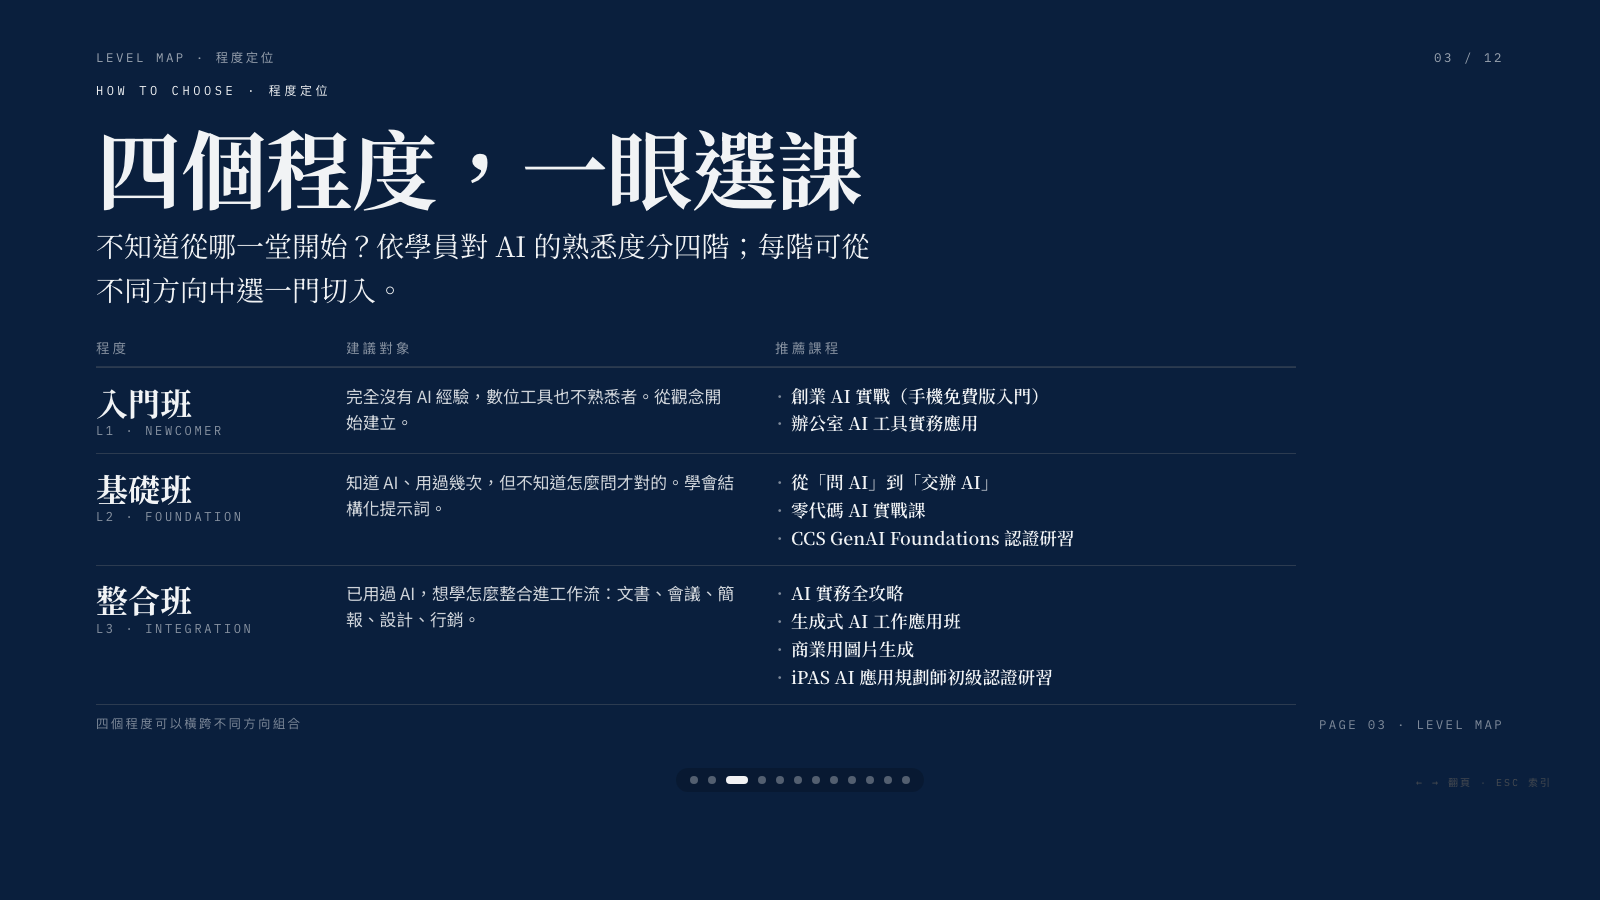
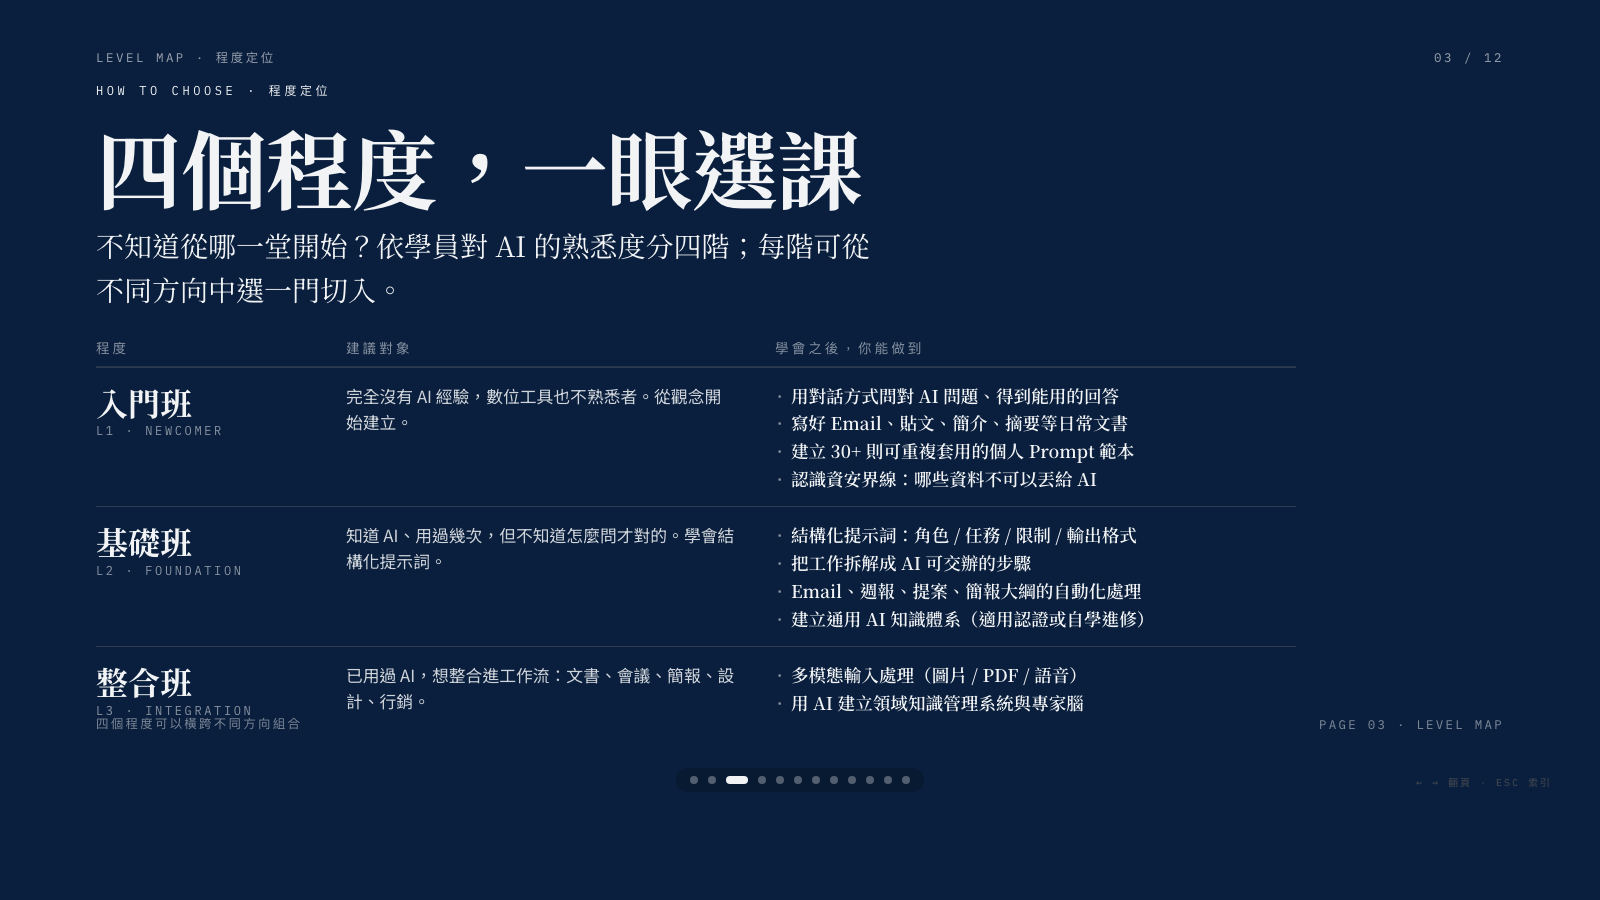
feat(deck): 程度定位改應用層面說明 + 自動化加 Make 課程（兩階段）
主訴：
1. 程度定位頁不要綁定具體課程，改用「應用層面」（從課程教學內容擷取）
2. 自動化主題增加 Make 自動化流程（已開過課但無網頁講義）
3. 課程介紹頁不需時數（已符合，未變動）

更動：
- Page 3 程度定位：欄位「推薦課程」→「學會之後，你能做到」；
  4 階各 4 條應用條目（從現有課程教學重點擷取）：
  · L1 入門：對話問 AI / 日常文書 / Prompt 範本 / 資安界線
  · L2 基礎：結構化提示詞 / AI 交辦 / 文書自動化 / 通用 AI 知識體系
  · L3 整合：多模態 / 知識管理 / 商業視覺成系列 / 數位行銷數據閉環
  · L4 協思：零代碼工具 / 雲端+本機自動化串接 / API+部署 / AI 策略夥伴
- Page 9 自動化：從 single feature-card 改成 two-courses（grid-2）
  · 入門 · 雲端視覺化：Make 自動化流程（新增）
  · 進階 · 本機 + AI 整合：AI 資料工廠 — 大規模文件處理實戰
- 主題地圖 06 desc：「補上一般雲端自動化平台做不到的：大量資料、本機檔案」
  → 「從視覺化雲端自動化入門，到本機部署處理大量資料」
- 修補 HTML 註解頁碼錯位（Page 4-12 註解之前留在舊編號）

diff --git a/index.html b/index.html
@@ -229,7 +229,7 @@
       <div class="course-line" data-anim><div class="tag">03 · GenAI</div><div class="name">生成式 AI · 商業圖像生成</div><div class="desc">AI 設計流水線 PM 思維，不需要專業設計軟體背景</div></div>
       <div class="course-line" data-anim><div class="tag">04 · Cert</div><div class="name">AI 認證輔導</div><div class="desc">CCS 國際認證 + iPAS 國家級認證</div></div>
       <div class="course-line" data-anim><div class="tag">05 · Marketing</div><div class="name">數位行銷 × 網站數據</div><div class="desc">SEO / GA4 / GTM / 廣告 / Looker Studio 完整資料閉環</div></div>
-      <div class="course-line" data-anim><div class="tag">06 · Automation</div><div class="name">自動化工作流</div><div class="desc">補上一般雲端自動化平台做不到的：大量資料、本機檔案</div></div>
+      <div class="course-line" data-anim><div class="tag">06 · Automation</div><div class="name">自動化工作流</div><div class="desc">從視覺化雲端自動化入門，到本機部署處理大量資料</div></div>
     </div>
   </div>
   <div class="foot">
@@ -255,7 +255,7 @@
       <div class="level-row level-head">
         <div>程度</div>
         <div>建議對象</div>
-        <div>推薦課程</div>
+        <div>學會之後，你能做到</div>
       </div>
       <div class="level-row" data-anim>
         <div class="level-name">
@@ -264,8 +264,10 @@
         </div>
         <div class="level-audience">完全沒有 AI 經驗，數位工具也不熟悉者。從觀念開始建立。</div>
         <div class="level-courses">
-          <div>創業 AI 實戰（手機免費版入門）</div>
-          <div>辦公室 AI 工具實務應用</div>
+          <div>用對話方式問對 AI 問題、得到能用的回答</div>
+          <div>寫好 Email、貼文、簡介、摘要等日常文書</div>
+          <div>建立 30+ 則可重複套用的個人 Prompt 範本</div>
+          <div>認識資安界線：哪些資料不可以丟給 AI</div>
         </div>
       </div>
       <div class="level-row" data-anim>
@@ -275,9 +277,10 @@
         </div>
         <div class="level-audience">知道 AI、用過幾次，但不知道怎麼問才對的。學會結構化提示詞。</div>
         <div class="level-courses">
-          <div>從「問 AI」到「交辦 AI」</div>
-          <div>零代碼 AI 實戰課</div>
-          <div>CCS GenAI Foundations 認證研習</div>
+          <div>結構化提示詞：角色 / 任務 / 限制 / 輸出格式</div>
+          <div>把工作拆解成 AI 可交辦的步驟</div>
+          <div>Email、週報、提案、簡報大綱的自動化處理</div>
+          <div>建立通用 AI 知識體系（適用認證或自學進修）</div>
         </div>
       </div>
       <div class="level-row" data-anim>
@@ -285,12 +288,12 @@
           <div class="level-zh">整合班</div>
           <div class="level-en">L3 · Integration</div>
         </div>
-        <div class="level-audience">已用過 AI，想學怎麼整合進工作流：文書、會議、簡報、設計、行銷。</div>
+        <div class="level-audience">已用過 AI，想整合進工作流：文書、會議、簡報、設計、行銷。</div>
         <div class="level-courses">
-          <div>AI 實務全攻略</div>
-          <div>生成式 AI 工作應用班</div>
-          <div>商業用圖片生成</div>
-          <div>iPAS AI 應用規劃師初級認證研習</div>
+          <div>多模態輸入處理（圖片 / PDF / 語音）</div>
+          <div>用 AI 建立領域知識管理系統與專家腦</div>
+          <div>商業視覺成系列產出（封面、海報、簡報、產品圖）</div>
+          <div>數位行銷數據閉環：搜尋意圖 → 追蹤 → 廣告 → 分析</div>
         </div>
       </div>
       <div class="level-row" data-anim>
@@ -300,8 +303,10 @@
         </div>
         <div class="level-audience">已熟練 AI，想讓 AI 成為長期協作夥伴：自建工具、自動化、API 整合。</div>
         <div class="level-courses">
-          <div>生成式 AI 職訓實務應用班（含 API / 部署）</div>
-          <div>AI 資料工廠 — 大規模文件處理實戰</div>
+          <div>自建零代碼工具（計算、查檢、互動網頁）</div>
+          <div>雲端自動化與本機自動化串接整合</div>
+          <div>API 串接、部署、版本管理等進階開發實務</div>
+          <div>讓 AI 成為策略討論與專案推進的長期夥伴</div>
         </div>
       </div>
     </div>
@@ -365,7 +370,7 @@
   </div>
 </section>
 
-<!-- =============== Page 4 · 生成式 AI · 應用程式設計 =============== -->
+<!-- =============== Page 5 · 生成式 AI · 應用程式設計 =============== -->
 <section class="slide dark">
   <div class="chrome">
     <div>GenAI · App Building · 應用程式設計</div>
@@ -391,7 +396,7 @@
   </div>
 </section>
 
-<!-- =============== Page 5 · 生成式 AI · 商業圖像生成 =============== -->
+<!-- =============== Page 6 · 生成式 AI · 商業圖像生成 =============== -->
 <section class="slide light">
   <div class="chrome">
     <div>GenAI · Imagery · 商業圖像</div>
@@ -417,7 +422,7 @@
   </div>
 </section>
 
-<!-- =============== Page 6 · AI 認證輔導 =============== -->
+<!-- =============== Page 7 · AI 認證輔導 =============== -->
 <section class="slide dark">
   <div class="chrome">
     <div>Certification · AI 認證</div>
@@ -450,7 +455,7 @@
   </div>
 </section>
 
-<!-- =============== Page 7 · 數位行銷 × 網站數據 =============== -->
+<!-- =============== Page 8 · 數位行銷 × 網站數據 =============== -->
 <section class="slide light">
   <div class="chrome">
     <div>Digital Marketing · 數位行銷</div>
@@ -493,33 +498,40 @@
   </div>
 </section>
 
-<!-- =============== Page 8 · 自動化工作流 =============== -->
+<!-- =============== Page 9 · 自動化工作流 =============== -->
 <section class="slide dark">
   <div class="chrome">
     <div>Automation · 自動化工作流</div>
     <div>09 / 12</div>
   </div>
-  <div class="frame" style="padding-top:5vh">
+  <div class="frame" style="padding-top:4vh">
     <div class="kicker" data-anim>Direction 06 · Automation</div>
     <h2 class="h-xl" data-anim>自動化工作流</h2>
-    <p class="lead" style="margin-top:2vh; margin-bottom:5vh; max-width:min(800px,92vw)" data-anim>
-      補上一般雲端自動化平台做不到的事——大量資料處理、本機檔案存取、AI 整合。<br>
-      給已熟自動化的進階使用者升級。
+    <p class="lead" style="margin-top:2vh; margin-bottom:4vh; max-width:min(800px,92vw)" data-anim>
+      從視覺化雲端自動化入門，到本機自動化處理大量資料與 AI 整合。<br>
+      兩個階段對應不同需求與技術深度。
     </p>
 
-    <div class="feature-card" data-anim style="max-width:min(900px,94vw)">
-      <div class="tag" style="font-family:var(--mono);font-size:max(11px,.85vw);letter-spacing:.22em;text-transform:uppercase;opacity:.55">Course</div>
-      <div class="name">AI 資料工廠 — 大規模文件處理實戰</div>
-      <div class="desc">用本機自動化平台（容器部署）突破雲端 ops 上限與本機檔案存取限制。產出可立即套用的雲地協作自動化系統。適合行銷企劃、營運、知識工作者、小型工作室主理人。</div>
+    <div style="display:grid; grid-template-columns:1fr 1fr; gap:3vh 4vw; max-width:min(1100px,96vw)">
+      <div class="course-line" data-anim style="border-top-width:2px">
+        <div class="tag">入門 · 雲端視覺化</div>
+        <div class="name">Make 自動化流程</div>
+        <div class="desc">從零學會視覺化自動化設計：節點串接、條件分支、SaaS 工具整合。免寫程式上手日常自動化，把繁瑣手動流程改成觸發式自動跑。</div>
+      </div>
+      <div class="course-line" data-anim style="border-top-width:2px">
+        <div class="tag">進階 · 本機 + AI 整合</div>
+        <div class="name">AI 資料工廠 — 大規模文件處理實戰</div>
+        <div class="desc">用本機自動化平台（容器部署）突破雲端 ops 上限與本機檔案存取限制。整合 AI 處理大量文件，產出可立即套用的雲地協作自動化系統。</div>
+      </div>
     </div>
   </div>
   <div class="foot">
-    <div>雲端自動化進階使用者升級首選</div>
-    <div>Page 08 · Automation</div>
+    <div>從入門視覺化到進階本機部署</div>
+    <div>Page 09 · Automation</div>
   </div>
 </section>
 
-<!-- =============== Page 9 · 開課實績 =============== -->
+<!-- =============== Page 10 · 開課實績 =============== -->
 <section class="slide hero light">
   <div class="chrome">
     <div>Track Record · 開課實績</div>
@@ -571,7 +583,7 @@
   </div>
 </section>
 
-<!-- =============== Page 10 · 教學原則金句 =============== -->
+<!-- =============== Page 11 · 教學原則金句 =============== -->
 <section class="slide light" data-animate="quote">
   <div class="chrome">
     <div>The Principle · 教學設計原則</div>
@@ -599,7 +611,7 @@
   </div>
 </section>
 
-<!-- =============== Page 11 · CTA =============== -->
+<!-- =============== Page 12 · CTA =============== -->
 <section class="slide hero dark">
   <div class="chrome">
     <div>Next Step · Let's Talk</div>
